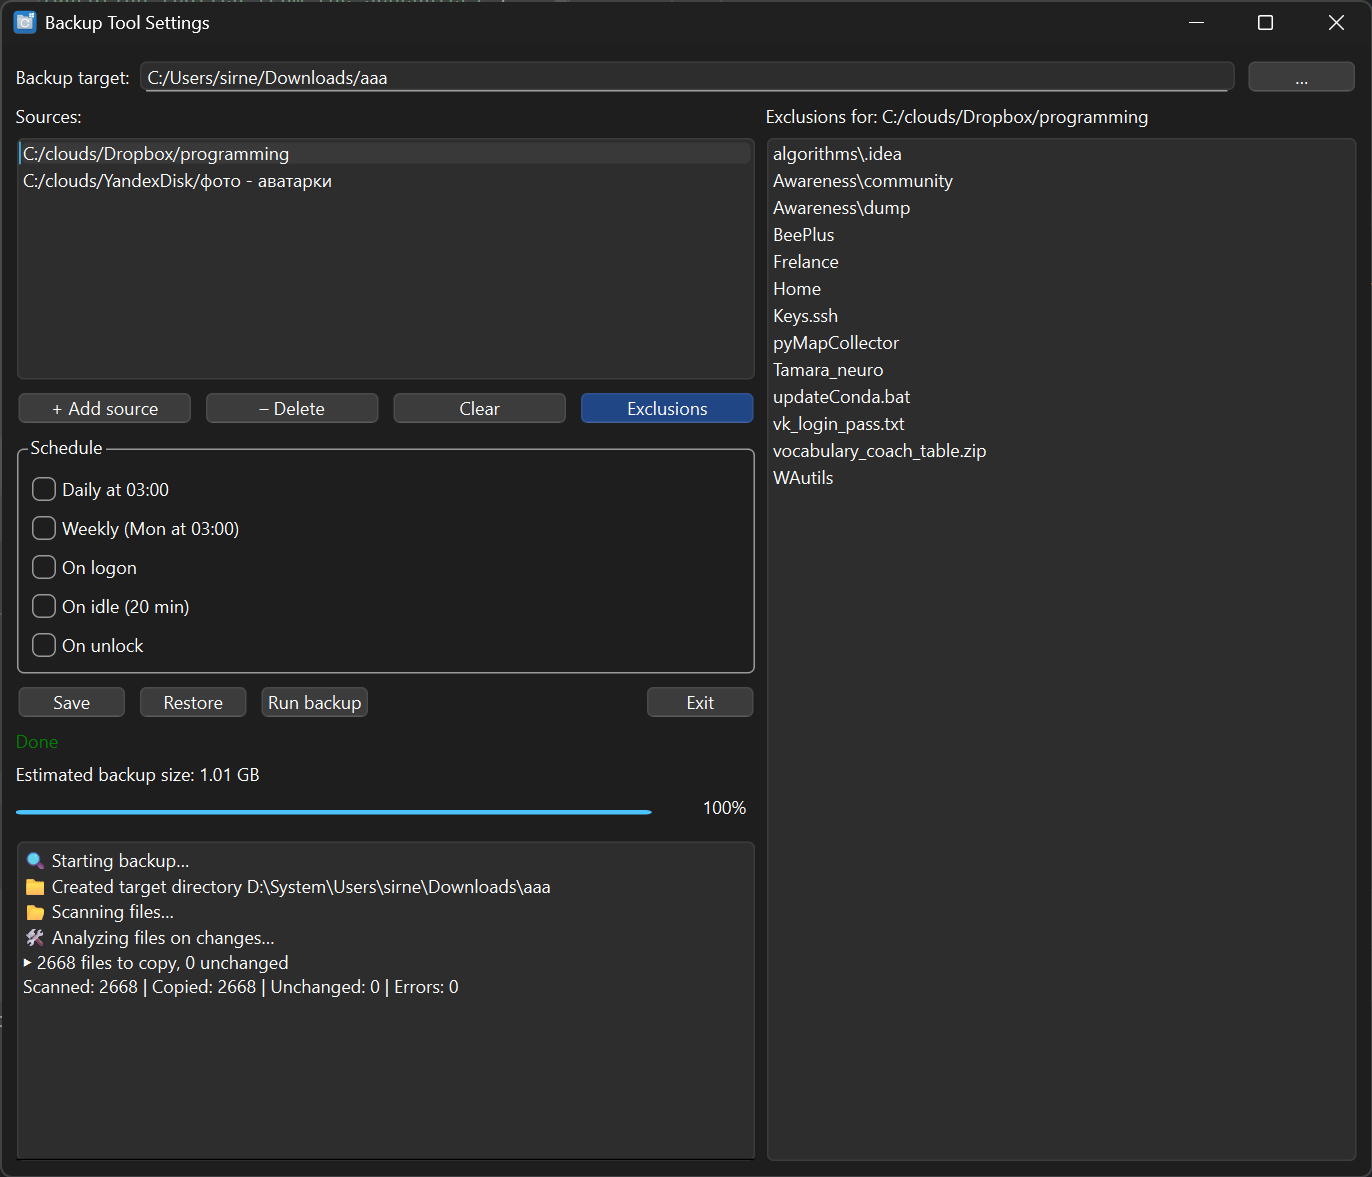
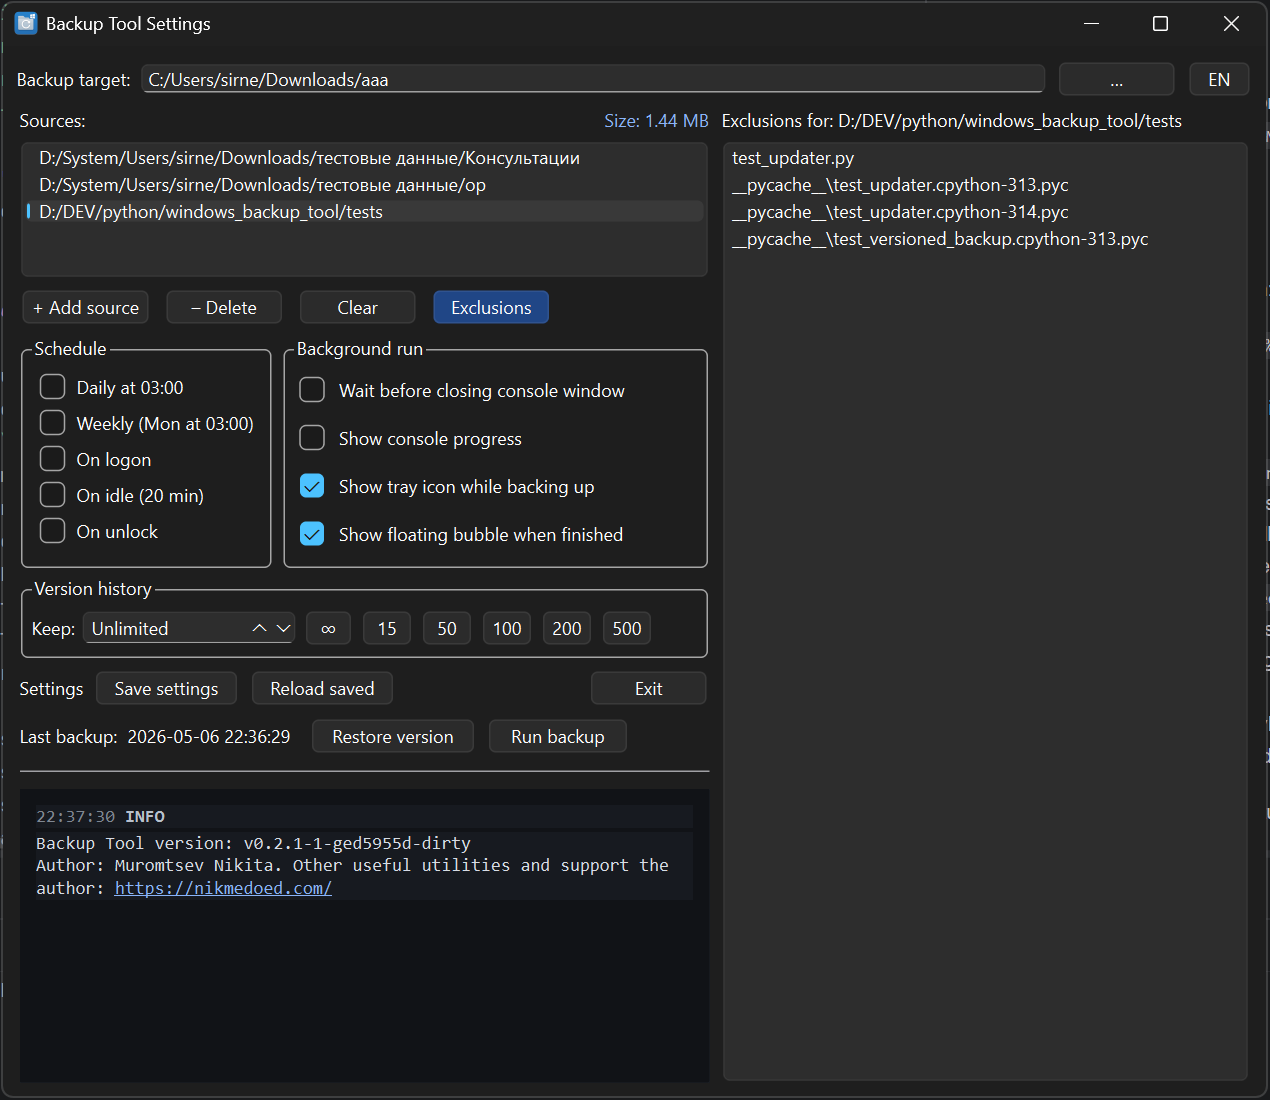
build fix

Changed region(s): [[0.0, 0.0, 1.0, 1.0], [0.0, 0.0, 0.1843, 0.0309], [0.8598, 0.2164, 0.8906, 0.2473]]

diff --git a/src/restore.py b/src/restore.py
@@ -67,7 +67,8 @@ def build_restore_plan(
     if mode == "export" and export_root is None:
         raise ValueError("export_root is required for export restore")
 
-    scope = scope_path.expanduser().resolve()
+    scope_input = _absolute_path(scope_path)
+    scope = scope_input.resolve()
     items = store.snapshot_for_scope(run_id, scope)
     actions: list[RestoreAction] = []
     for item in items:
@@ -78,7 +79,7 @@ def build_restore_plan(
             actions.append(_copy_action(store, item, target, action="export", skip_equal=False))
             continue
 
-        target = Path(item.source_path)
+        target = _restore_target_for_item(item, scope_input, scope)
         if item.state == "present":
             action = _copy_action(store, item, target, skip_equal=True)
             if action is not None:
@@ -229,6 +230,24 @@ def _copy_action(
 def _export_target(source_path: Path, export_root: Optional[Path]) -> Path:
     assert export_root is not None
     return export_root.expanduser().resolve() / mirror_relative_for_source(source_path)
+
+
+def _restore_target_for_item(item: SnapshotItem, scope_input: Path, resolved_scope: Path) -> Path:
+    source = Path(item.source_path)
+    try:
+        rel = source.relative_to(resolved_scope)
+    except ValueError:
+        return source
+    if str(rel) == ".":
+        return scope_input
+    return scope_input / rel
+
+
+def _absolute_path(path: Path) -> Path:
+    expanded = path.expanduser()
+    if expanded.is_absolute():
+        return expanded
+    return Path.cwd() / expanded
 
 
 def _archive_current_target(

diff --git a/README.md b/README.md
@@ -214,14 +214,13 @@ To update:
 
 Generate a standalone `.exe`:
 
-```bash
-python scripts/write_version.py --print
+```powershell
 pyinstaller BackupTool.spec --noconfirm
 ```
 
 > `--uac-admin`: requests elevated privileges when launched  
 > Result is saved in `dist/BackupTool.exe`.
-> The build writes `src/_version_generated.py` from `git describe --tags --dirty --always`, so the frozen executable carries the tag-derived version even when it later runs outside a git checkout.
+> The spec generates `src/_version_generated.py` and compiles translations before PyInstaller analysis, so the frozen executable carries the tag-derived version and `.mo` locale files.
 
 ## Release Build
 
